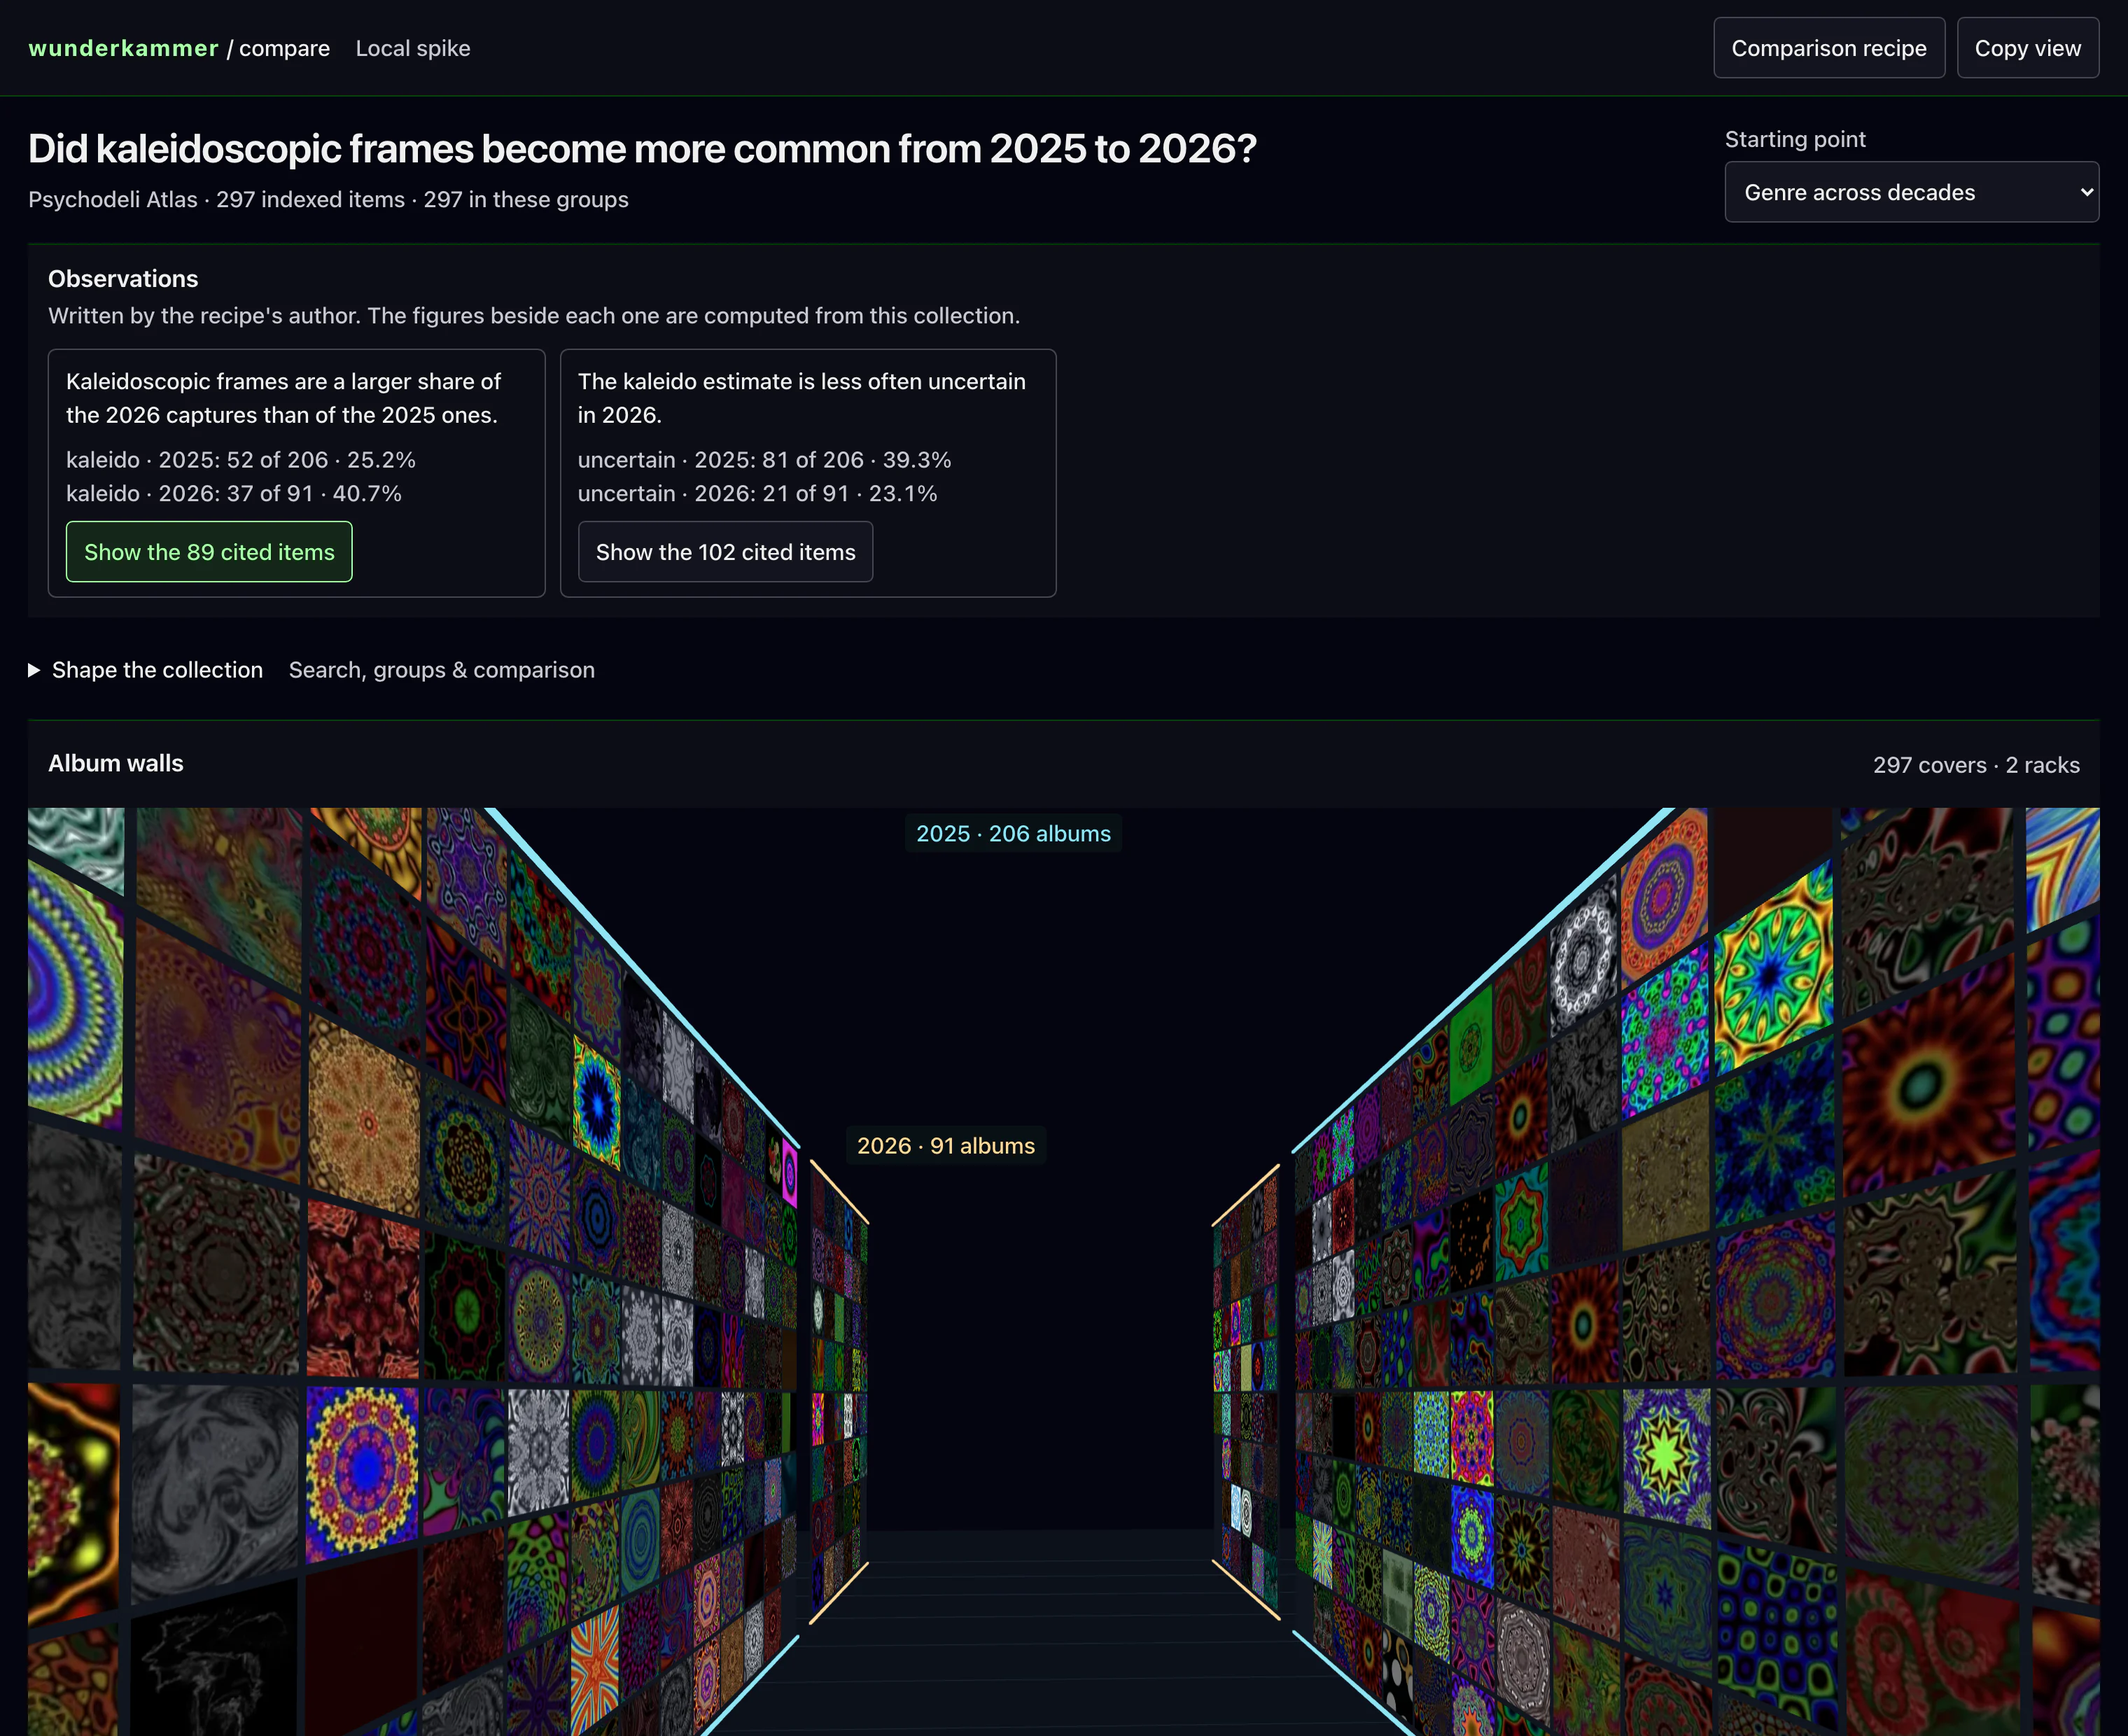
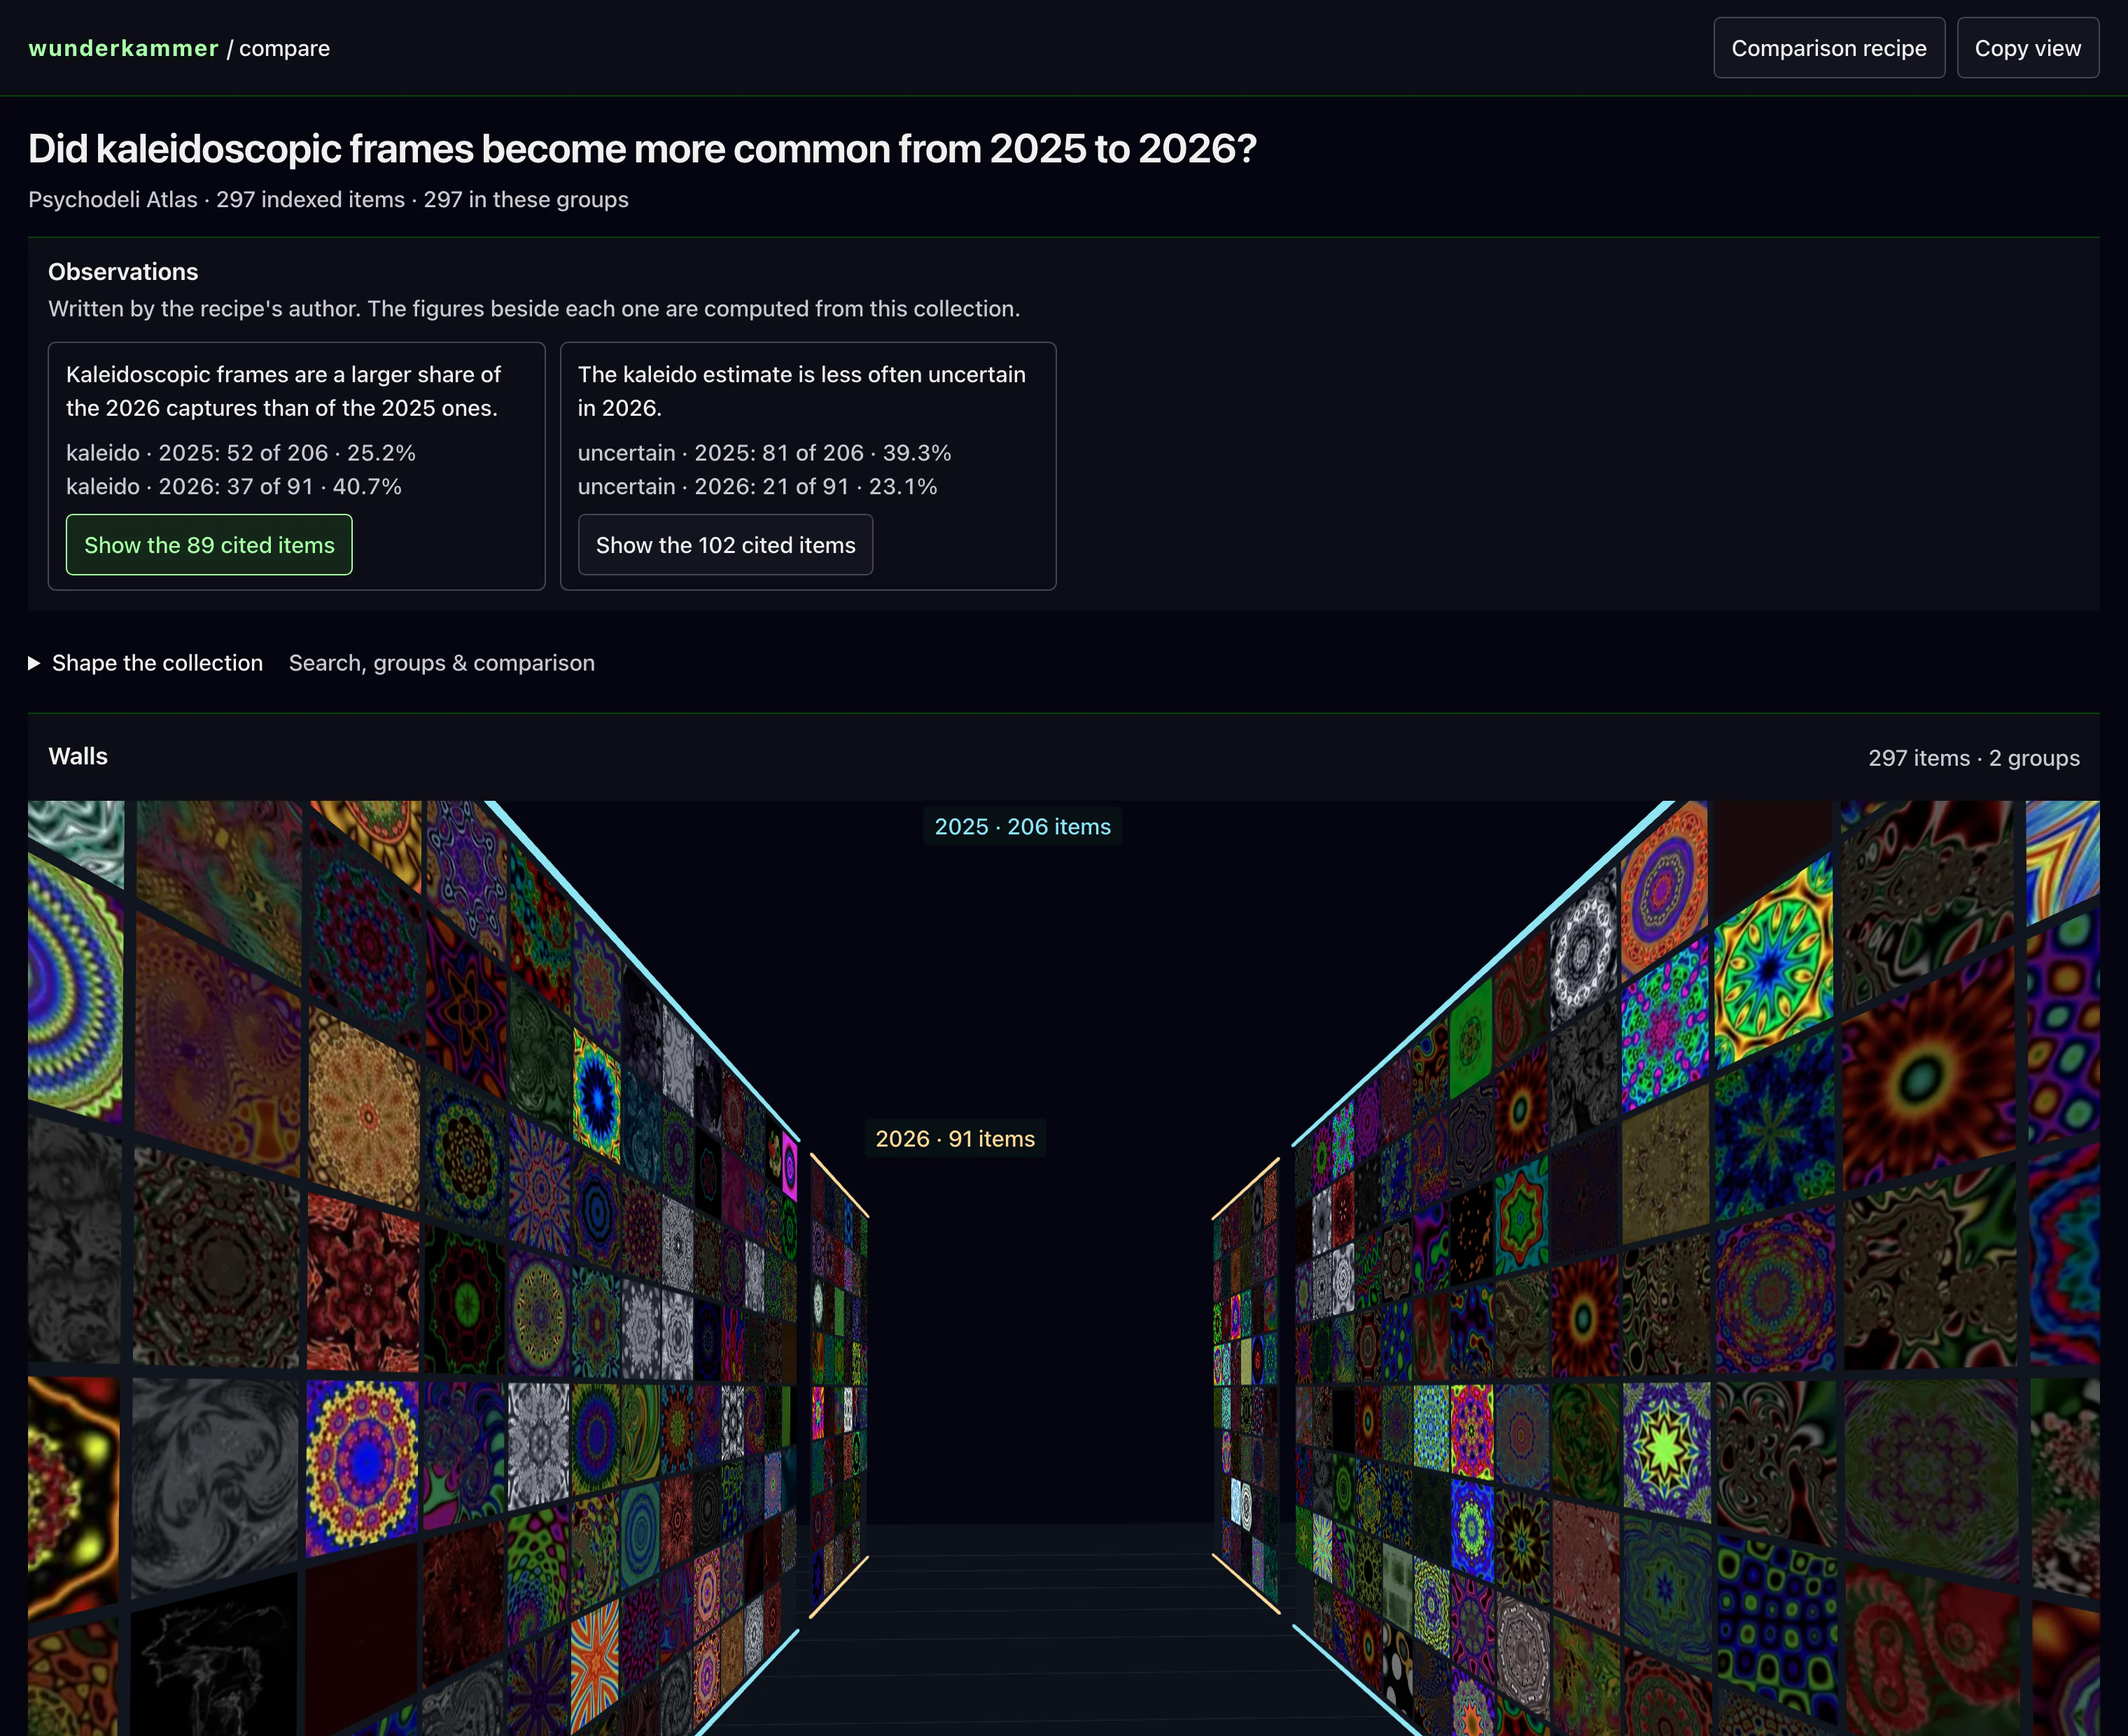
docs(readme): recapture the claims screenshot without music copy
The comparison page no longer shows the prototype badge, the music
starting points or album nouns for the Psychodeli example, so shot 1 now
reads "Walls", "297 items · 2 groups" and "2025 · 206 items". Captured with
the release capture script at 1520 CSS px, 2x, WebP q86.

diff --git a/README.md b/README.md
@@ -19,7 +19,7 @@ The model writes a collection and a comparison, and attaches observations that
 cite exact cells. The page shows each claim's text beside figures it computes
 itself. Selecting one lights its evidence in the matrix and on the walls.
 
-![Two observations about kaleidoscopic frames in 2025 and 2026. The selected one cites 89 items, which stay lit on the album walls while the rest dim.](docs/screenshots/1-claims.webp)
+![Two observations about kaleidoscopic frames in 2025 and 2026. The selected one cites 89 items, which stay lit on the walls while the rest dim.](docs/screenshots/1-claims.webp)
 
 ### 2. Explore a large image collection
 
